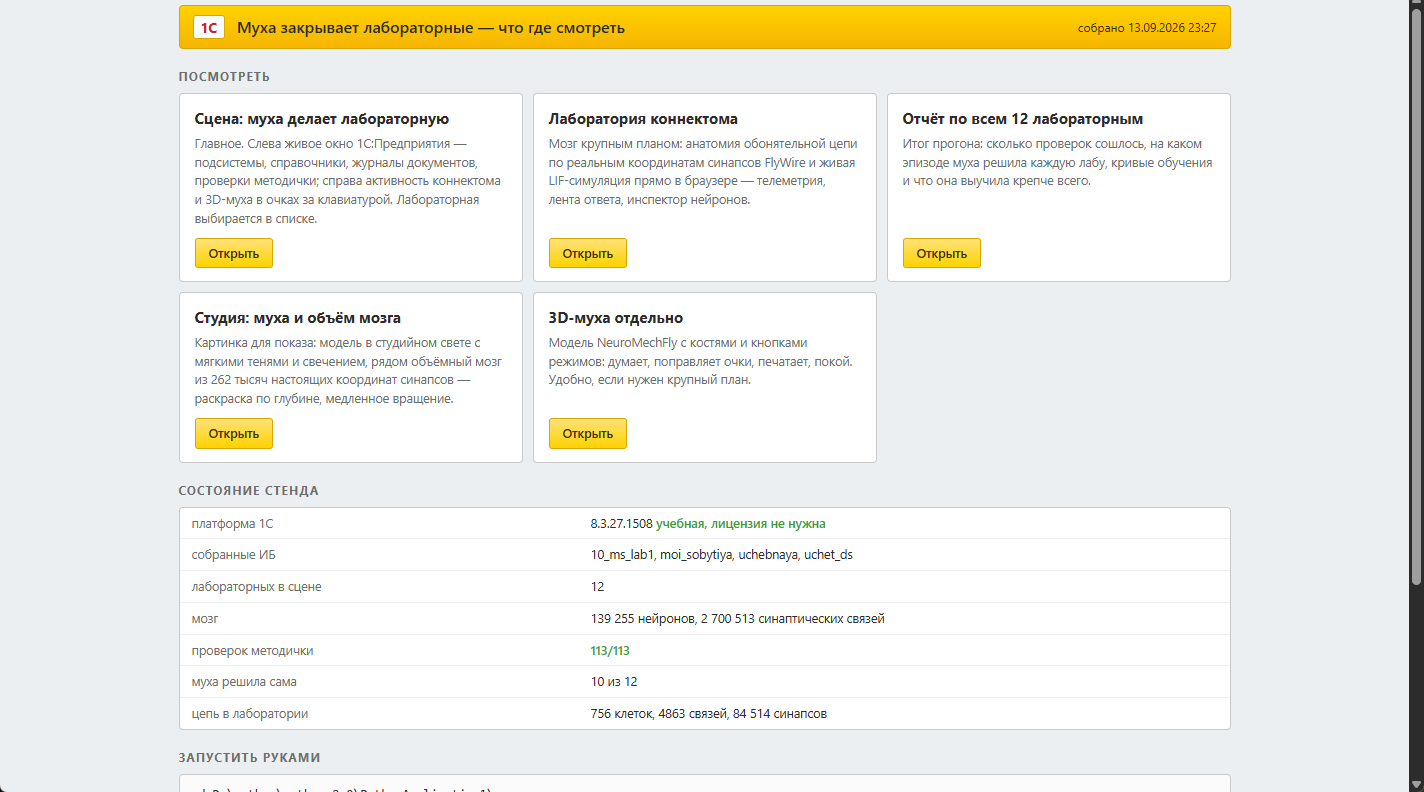
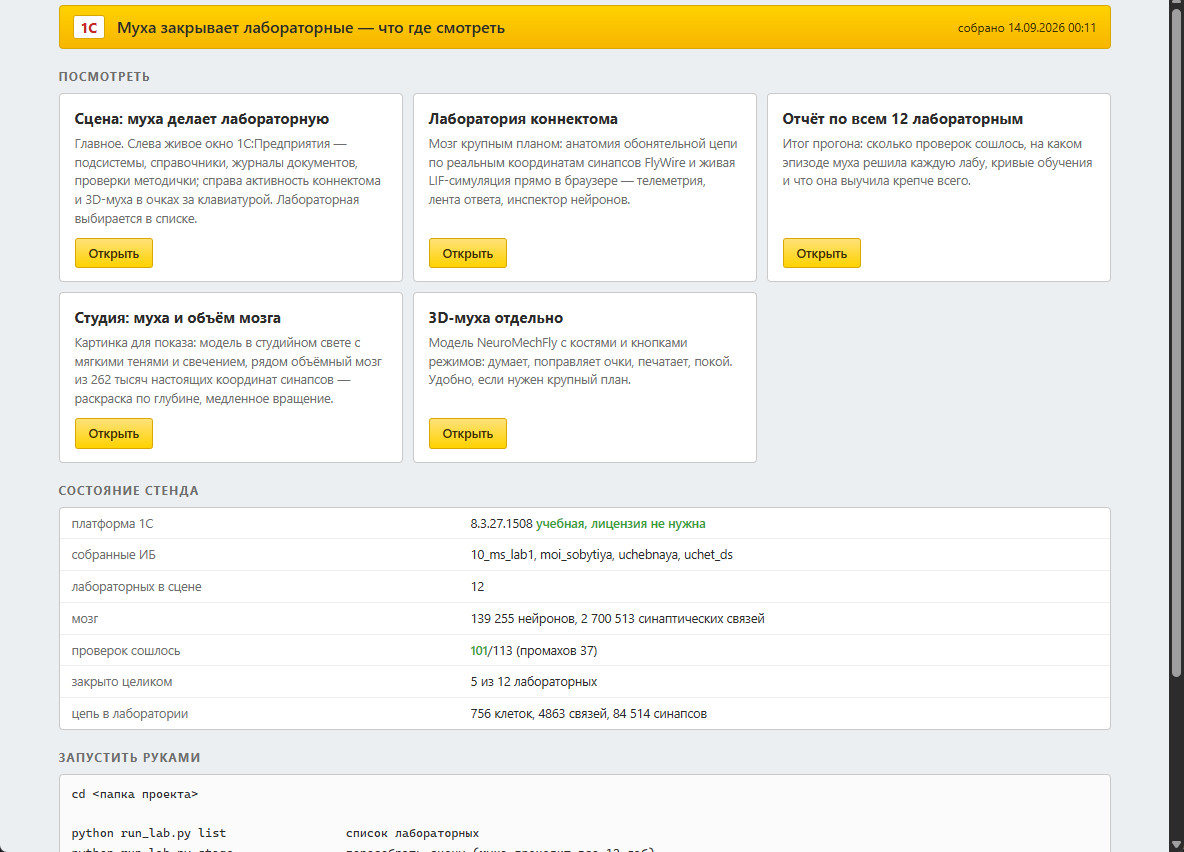
Стартовая страница считает по тому же прогону, что и сцена
Стенд брал числа из телеметрии старого агента и показывал «проверок методички
113/113» — это был результат оракула, а не мухи, и он спорил с замером в README.
Теперь берётся итог того самого прогона, который показан на сцене: 101/113 и
5 лабораторных из 12 закрытых целиком. Из viz_home убран зашитый абсолютный путь.

diff --git a/fly1c/viz_home.py b/fly1c/viz_home.py
@@ -82,7 +82,7 @@ CARDS = [
      "Удобно, если нужен крупный план."),
 ]
 
-COMMANDS = """cd D:\\python\\python_2.0\\PythonApplication1\\govno
+COMMANDS = """cd <папка проекта>
 
 python run_lab.py list                 список лабораторных
 python run_lab.py stage                пересобрать сцену (муха проходит все 12 лаб)
@@ -120,12 +120,16 @@ def status_rows() -> str:
         row("лабораторных в сцене", f"{len(data['labs'])}")
         row("мозг", f"{_num(data['brain']['нейронов'])} нейронов, "
                     f"{_num(data['brain']['синаптических связей'])} синаптических связей")
-    tel = REPORT / "telemetry.json"
-    if tel.exists():
-        data = json.loads(tel.read_text(encoding="utf-8"))
-        row("проверок методички", f'<span class="ok">{data["passed_checks"]}/'
-                                  f'{data["total_checks"]}</span>')
-        row("муха решила сама", f"{data['solved_by_fly']} из {len(data['labs'])}")
+        # берём итог того самого прогона, который показан на сцене: телеметрия
+        # старого агента показывала здесь 113/113 и противоречила замеру
+        got = sum(sum(lab["frames"][-1]["mask"]) for lab in data["labs"] if lab["frames"])
+        total = sum(len(lab["checks"]) for lab in data["labs"])
+        misses = sum(1 for lab in data["labs"] for f in lab["frames"] if f["failed"])
+        row("проверок сошлось", f'<span class="ok">{got}</span>/{total} '
+                                f'<span class="dim">(промахов {misses})</span>')
+        full = sum(1 for lab in data["labs"]
+                   if lab["frames"] and sum(lab["frames"][-1]["mask"]) == len(lab["checks"]))
+        row("закрыто целиком", f"{full} из {len(data['labs'])} лабораторных")
     circuit = ROOT / "assets" / "circuit.json"
     if circuit.exists():
         data = json.loads(circuit.read_text(encoding="utf-8"))
